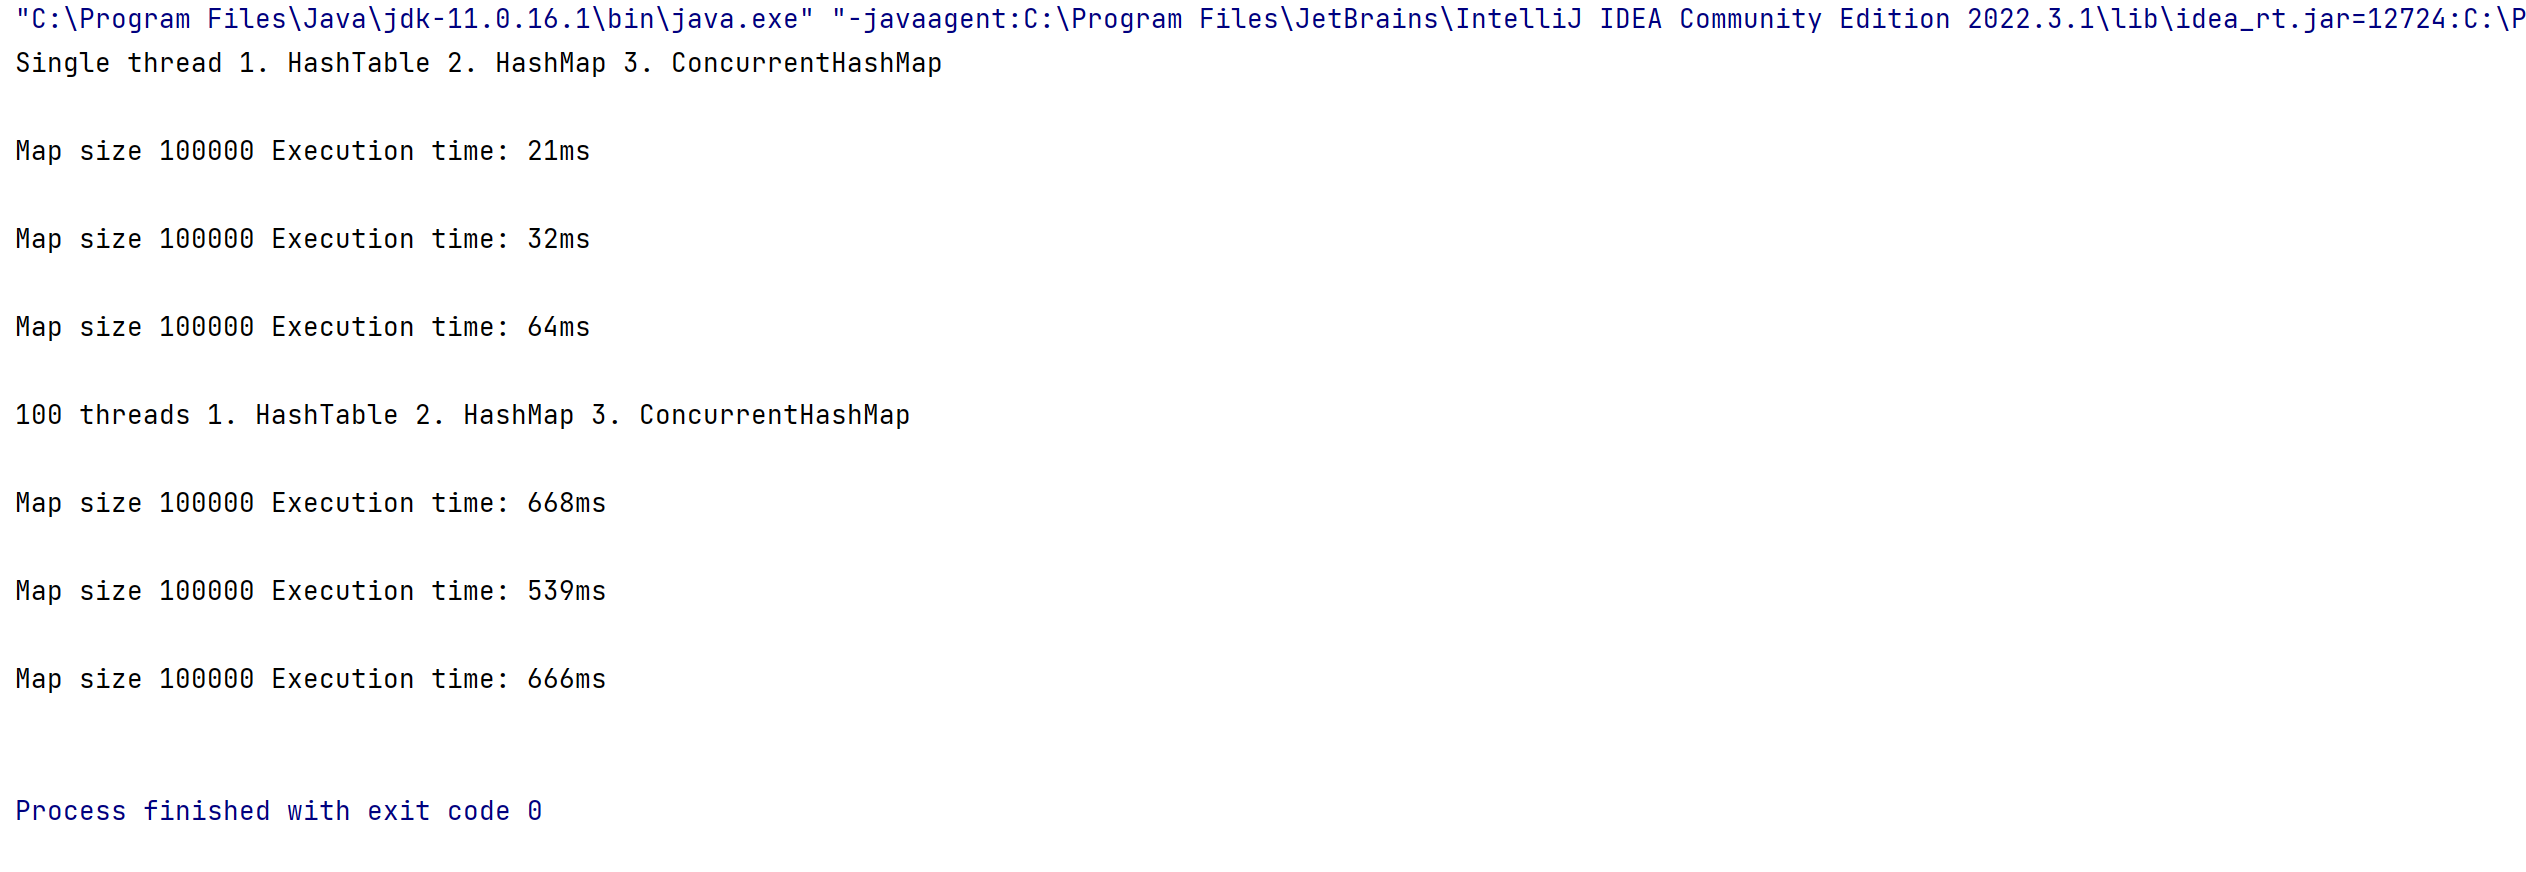
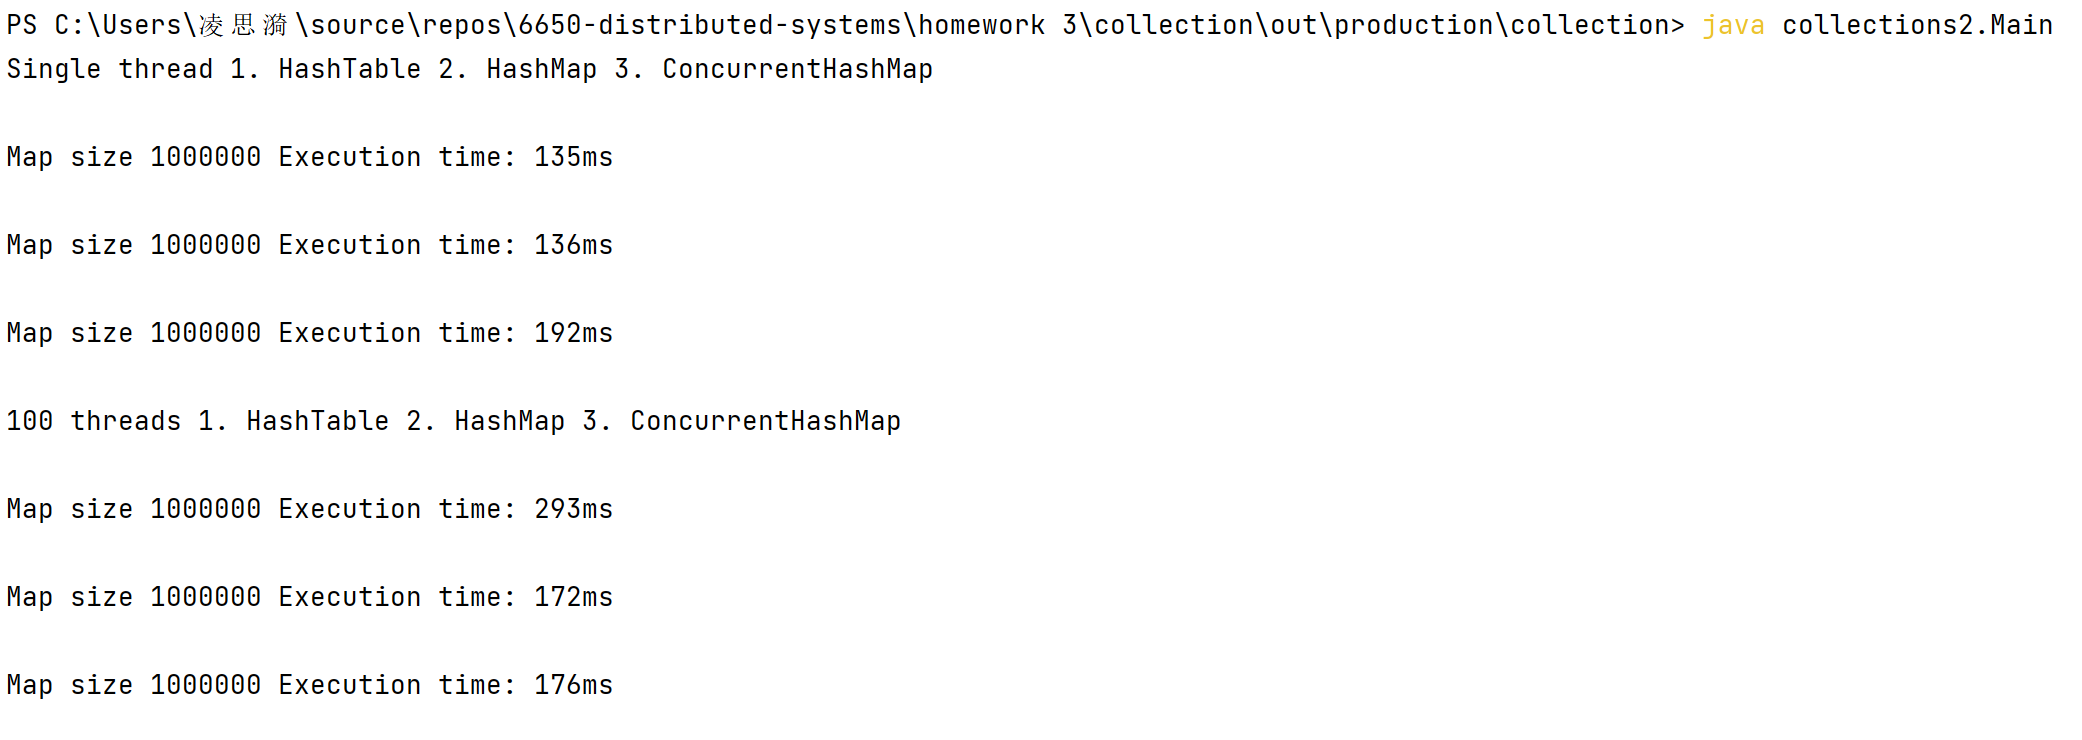
improved multithread performance

diff --git a/homework 3/collection/src/collections2/Main.java b/homework 3/collection/src/collections2/Main.java
@@ -10,26 +10,20 @@ import java.util.List;
 import java.util.concurrent.ConcurrentHashMap;
 import java.util.Map;
 
-class TestMap {
-  private Map<Integer, Integer> testMap;
-  public TestMap(Map<Integer, Integer> map) {
-    this.testMap = map;
-  }
-  public synchronized void add() {
-    for (int i=0; i<100000; i++) {
-      testMap.put(i, i);
-    }
-  }
-}
-
 class Task implements Runnable{
-  private TestMap map;
-  public Task(TestMap map) {
+  private final Map<Integer, Integer> map;
+  private final int startRange;
+
+  Task(Map<Integer, Integer> map, int startRange) {
     this.map = map;
+    this.startRange = startRange;
   }
+
   @Override
   public void run() {
-    map.add();
+    for (int i = startRange; i < startRange + 10000; i++) {
+      map.put(i, i);
+    }
   }
 }
 
@@ -47,7 +41,7 @@ public class Main {
 
   public static void singleThread(Map<Integer, Integer> map) {
     Instant startTime = Instant.now();
-    for (int i=0; i<100000; i++) {
+    for (int i=0; i<1000000; i++) {
       map.put(i, i);
     }
     Instant endTime = Instant.now();
@@ -56,13 +50,14 @@ public class Main {
   }
 
   public static void multiThread(Map<Integer, Integer> map) {
-    TestMap testMap = new TestMap(map);
     List<Thread> threads = new ArrayList<>();
     Instant startTime = Instant.now();
     for (int i=0; i<100; i++) {
-      Thread t = new Thread(new Task(testMap));
+      Thread t = new Thread(new Task(map, i*10000));
       threads.add(t);
       t.start();
+    }
+    for (Thread t : threads) {
       try {
         t.join();
       } catch (InterruptedException e) {
